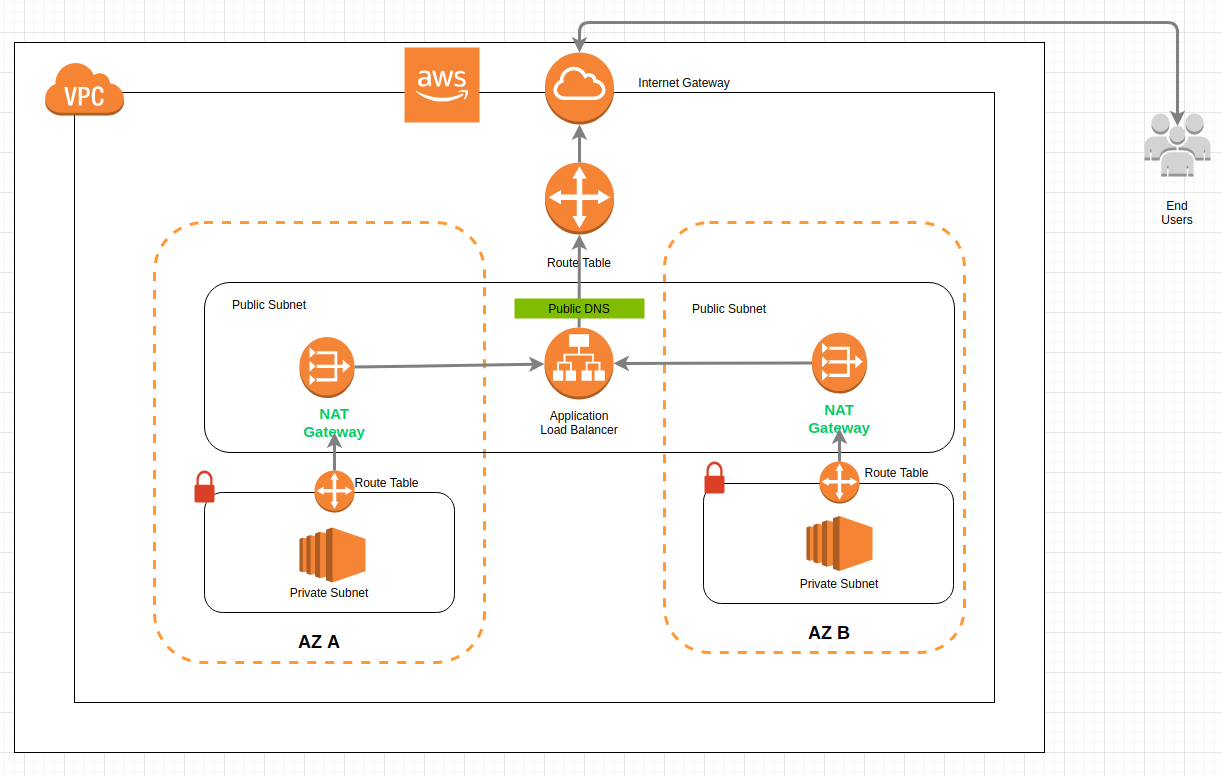
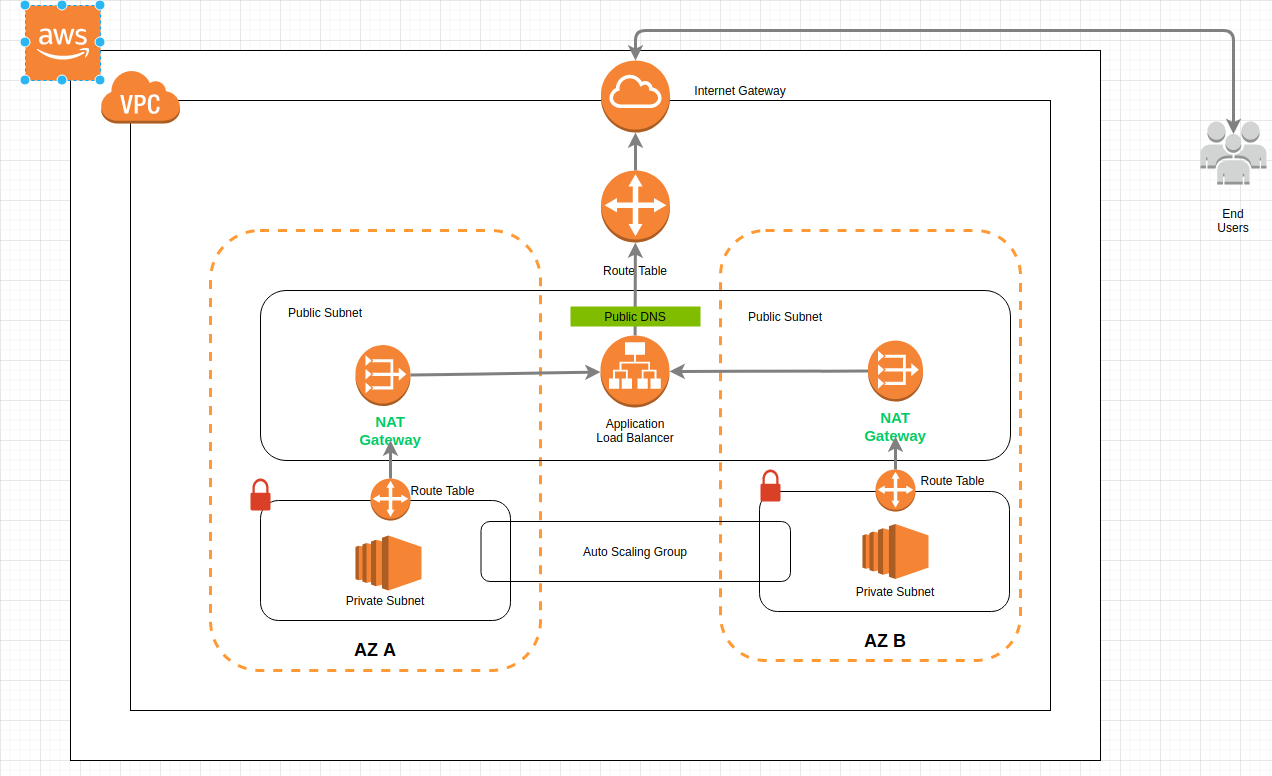
Ready, Pending the Log Volume

diff --git a/README.md b/README.md
@@ -1,10 +1,25 @@
 # terraform-vpc-module
+This module deploys a basic Web application on AWS. Following resources will be deployed if the values from terraform.tfvars are used
+
+    1. VPC
+    2. Internet Gateway
+    3. 2 Public Subnets
+    4. 2 Private Subnets
+    5. Public Security Group
+    6. Private Security Group
+    7. 2 NAT Gateways
+    8. Application Load Balancer
+    9. Listner 
+    10. Tagret Group
+    11. Launch Configuration
+    12. Auto Scaling Group
 
 ## Prequisites
-    * Terraform12
-    * Logged in to AWS Cli
-    * Environment Variables (Details can be found [here.](https://registry.terraform.io/providers/hashicorp/aws/latest/docs))
-    You can provide your credentials via the AWS_ACCESS_KEY_ID and AWS_SECRET_ACCESS_KEY, environment variables, representing your AWS Access Key and AWS Secret Key, respectively. Note that setting your AWS credentials using either these (or legacy) environment variables will override the use of AWS_SHARED_CREDENTIALS_FILE and AWS_PROFILE. The AWS_DEFAULT_REGION and AWS_SESSION_TOKEN environment variables are also used, if applicable:
+    *   Terraform12
+    *   Logged in to AWS Cli
+    *   Environment Variables 
+Details can be found [here](https://registry.terraform.io/providers/hashicorp/aws/latest/docs)
+You can provide your credentials via the AWS_ACCESS_KEY_ID and AWS_SECRET_ACCESS_KEY, environment variables, representing your AWS Access Key and AWS Secret Key, respectively. Note that setting your AWS credentials using either these (or legacy) environment variables will override the use of AWS_SHARED_CREDENTIALS_FILE and AWS_PROFILE. The AWS_DEFAULT_REGION and AWS_SESSION_TOKEN environment variables are also used, if applicable:
 
 
 ## Deploy
@@ -14,6 +29,9 @@ terraform workspace new mhdemo-us-east-1-dev
 terraform workspace select mhdemo-us-east-1-dev
 terraform plan
 terraform apply
+```
+```diff
+- Note: After deployment, wait till the Target Groups's Health Checks passes!
 ```
 
 ## Architecture (High Availability / Multi A-Z)
